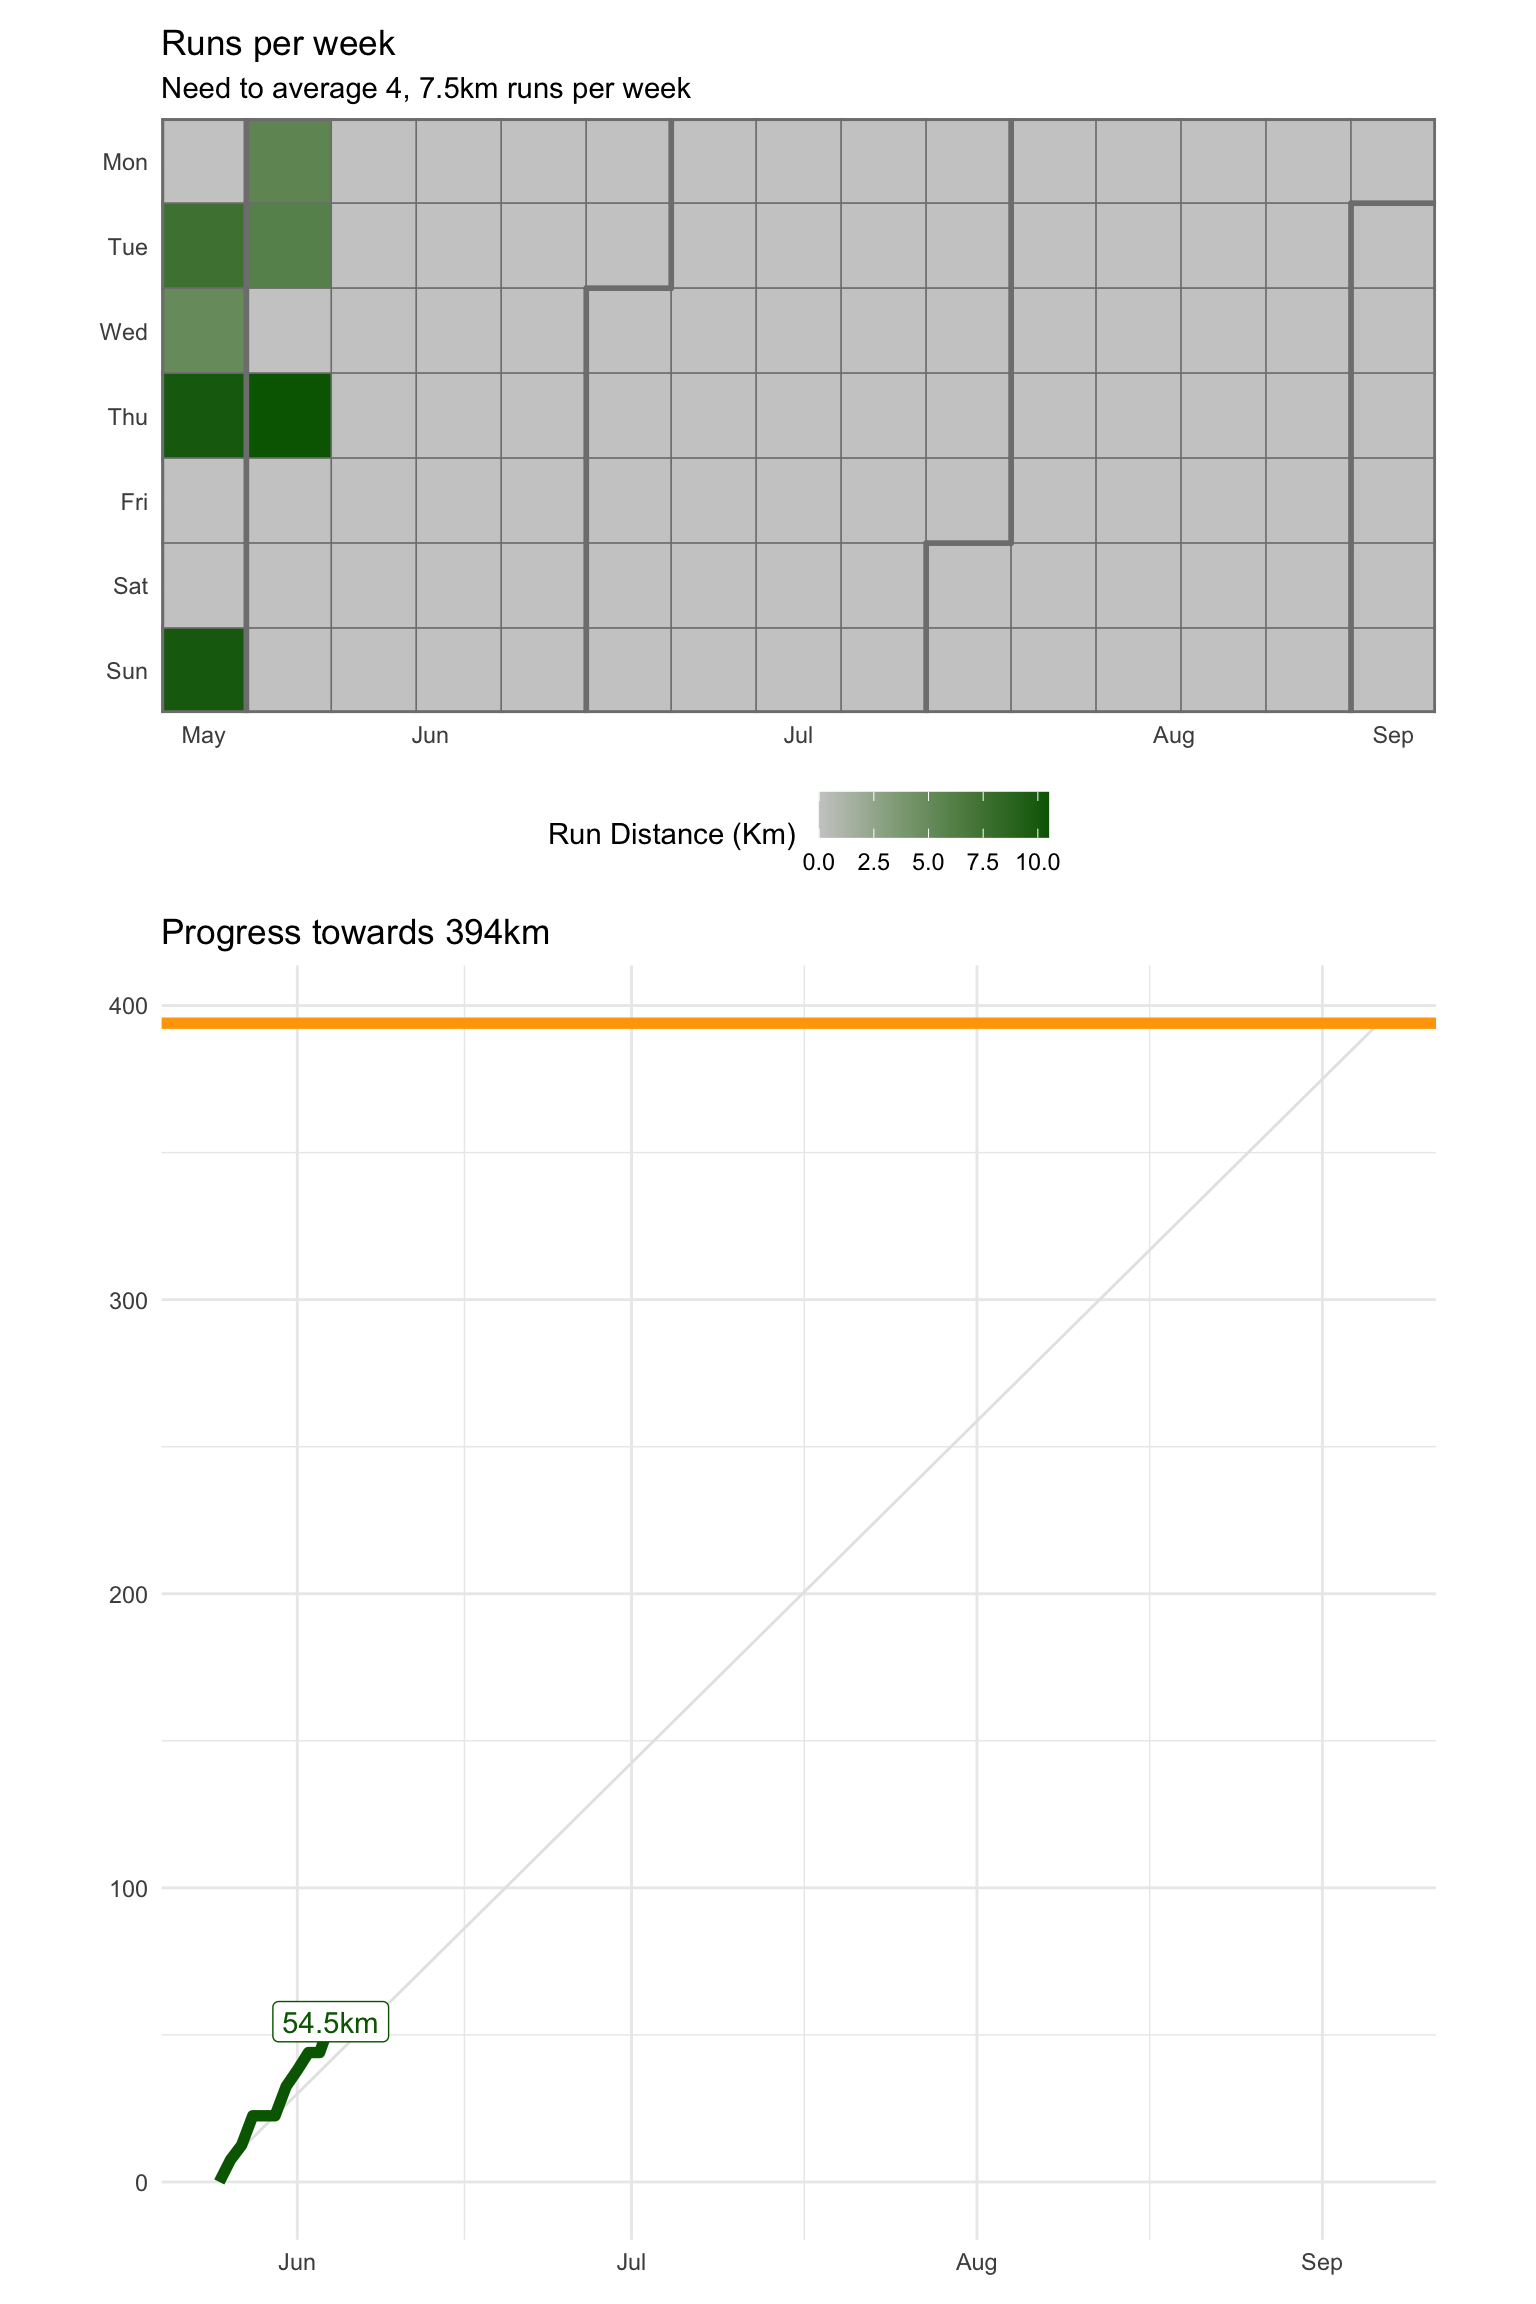
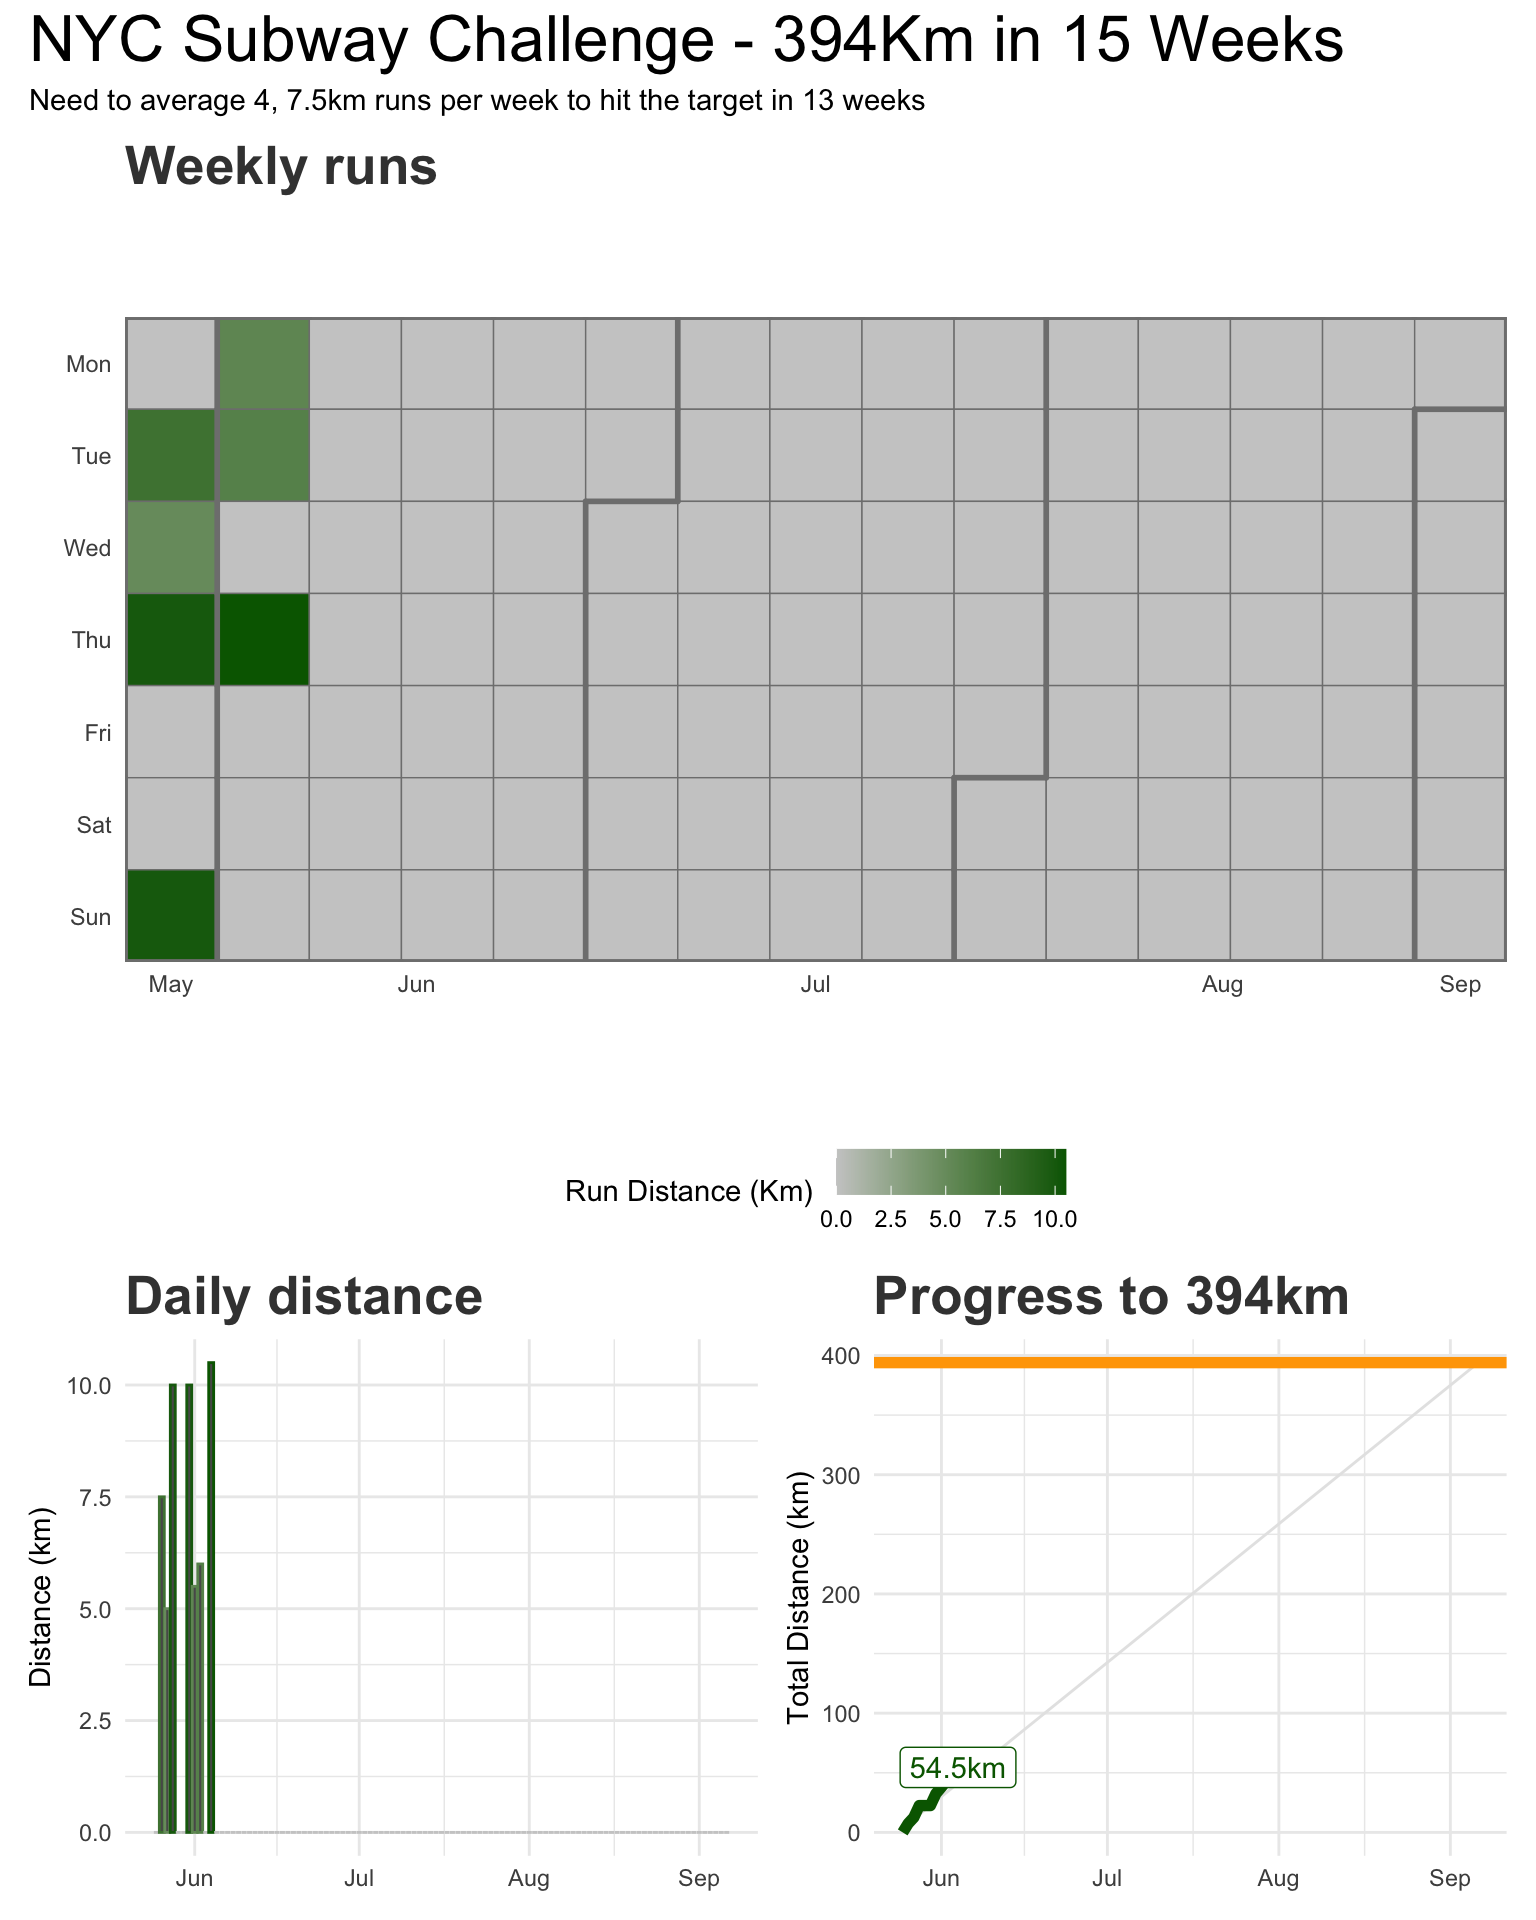
update chart

diff --git a/content/post/subway_challenge_2020/index.html b/content/post/subway_challenge_2020/index.html
@@ -21,81 +21,8 @@ image:
 <p>I’ve signed up to the <a href="https://nycruns.com/race/nycruns-subway-system-challenge">NYC Runs Subway Challenge</a> which involves running a total of 245 miles / 394 kilometers in the 15 weeks between Memorial Day (25th May 2020) and Labour Day (7th September 2020).</p>
 <p>I’m targeting an average of 4 weekly runs totaling 30km per week to give me a bit of buffer (will complete in 13 weeks) in case my schedule goes awry.</p>
 <p>I’m tracking my progress by pulling my running data down from the strava API and monitoring it here ….</p>
-<div id="training-log" class="section level3">
-<h3>Training Log</h3>
-<table>
-<thead>
-<tr>
-<th style="text-align:left;">
-Date
-</th>
-<th style="text-align:left;">
-distance
-</th>
-</tr>
-</thead>
-<tbody>
-<tr>
-<td style="text-align:left;">
-2020-05-26
-</td>
-<td style="text-align:left;">
-7.5km
-</td>
-</tr>
-<tr>
-<td style="text-align:left;">
-2020-05-27
-</td>
-<td style="text-align:left;">
-5km
-</td>
-</tr>
-<tr>
-<td style="text-align:left;">
-2020-05-28
-</td>
-<td style="text-align:left;">
-10km
-</td>
-</tr>
-<tr>
-<td style="text-align:left;">
-2020-05-31
-</td>
-<td style="text-align:left;">
-10km
-</td>
-</tr>
-<tr>
-<td style="text-align:left;">
-2020-06-01
-</td>
-<td style="text-align:left;">
-5.5km
-</td>
-</tr>
-<tr>
-<td style="text-align:left;">
-2020-06-02
-</td>
-<td style="text-align:left;">
-6km
-</td>
-</tr>
-<tr>
-<td style="text-align:left;">
-2020-06-04
-</td>
-<td style="text-align:left;">
-10.5km
-</td>
-</tr>
-</tbody>
-</table>
-</div>
-<div id="progress-tracking" class="section level3">
-<h3>Progress Tracking</h3>
+<div id="tracking-progress" class="section level3">
+<h3>Tracking Progress</h3>
 <p><img src="/post/subway_challenge_2020/index_files/figure-html/progress_chart-1.png" width="768" /></p>
 </div>
 <div id="pulling-activity-data-from-the-strava-api-using-r" class="section level2">
